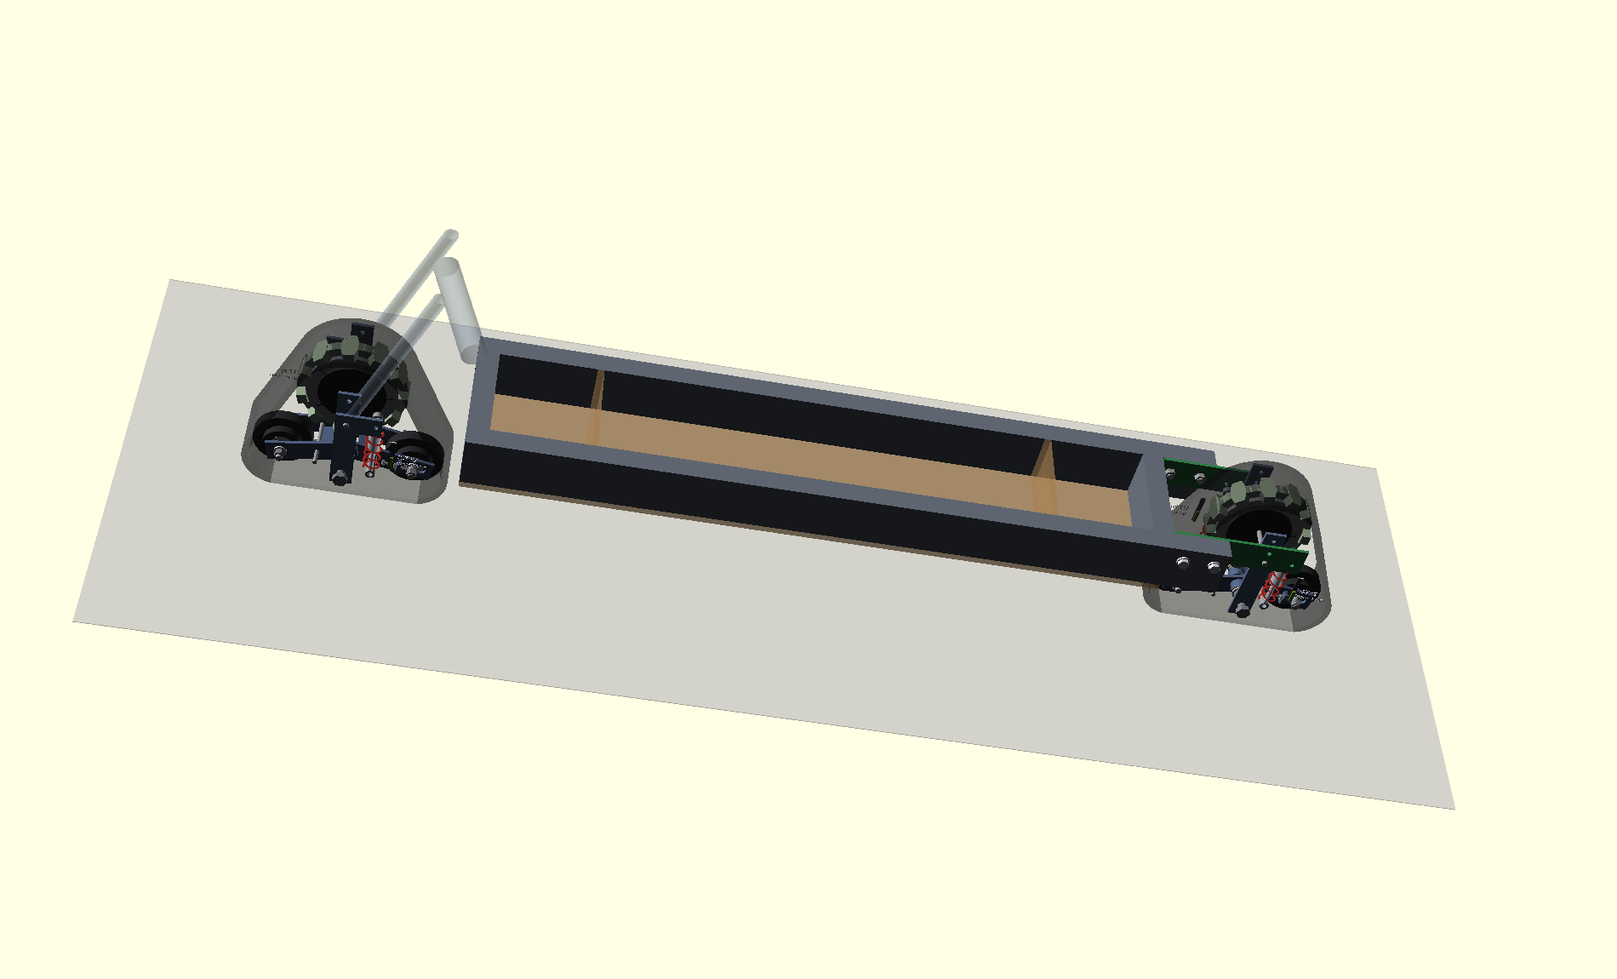
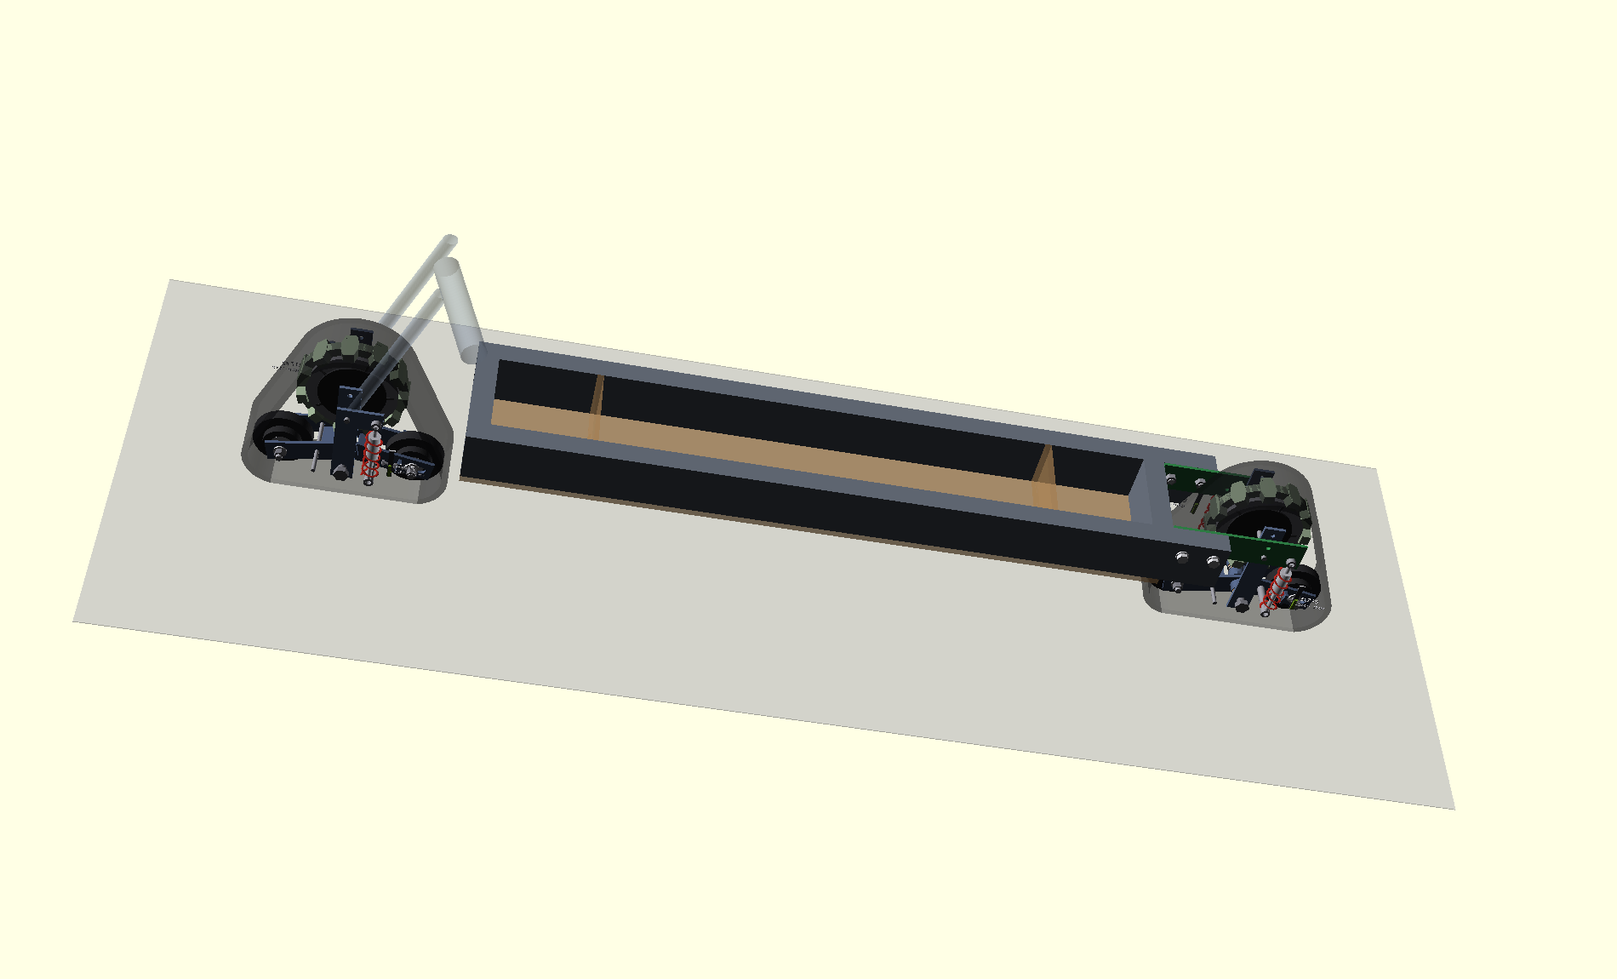
WALL-E: give view a Customizer dropdown, add the missing chest mode
walle.scad's "view" had a prose comment instead of the // [a, b, c]
annotation OpenSCAD needs, so the Customizer showed a text box and you had to
know the mode names to type them. It now lists all eleven views with readable
labels.

cad/walle_frame.scad's render_mode list was missing "chest", which was added
when the speakers went in. The mode worked; it just was not offered.

Changed region(s): [[0.2795, 0.3348, 0.8074, 0.6391], [0.1863, 0.2435, 0.2795, 0.487]]

diff --git a/archive/rev012-inline-batteries/README.md b/archive/rev012-inline-batteries/README.md
@@ -85,11 +85,11 @@ open -a OpenSCAD apollo_track_pod.scad     # OpenSCAD is installed via Homebrew
 - `render_mode = "tensioner"` — labeled 3D close-up of the Sheet-6 belt tensioner
   (slot, adjuster blocks, draw bolts, welded lugs); `tension_pos` (0–25) slides the
   axle through its take-up.
-- `render_mode = "chassis"` — **REV 012: the whole vehicle.** 100×40×2 frame, two batteries in
-  line, a 6.5″ speaker firing up at each end of the deck, rear pod bolted to the rails
-  (4× M12), front end drawn as a ghost (its link to the frame is not designed yet). The echoes
-  print every check, the cut list and the weight. See "Rev 012 — narrow frame" below.
-  Toggles: `show_lid`, `show_tray`, `show_batteries`, `show_speakers`, `show_chassis_labels`.
+- `render_mode = "chassis"` — **REV 012: the whole vehicle.** Narrow 100×40×2 frame,
+  two batteries in line, a 6.5″ speaker firing up at each end of the deck, rear pod bolted to
+  the rails (4× M12), front pod in the donor fork (ghost). The echoes print every check, the
+  cut list and the weight. See "Rev 012 — narrow frame" below. Toggles: `show_lid`,
+  `show_tray`, `show_batteries`, `show_speakers`, `show_chassis_labels`.
 - `render_mode = "chassis_link"` — labelled close-up of how the rear pod hangs on the rails;
   `link_explode` (0–150) pulls the pod back out.
 - `render_mode = "chassis_plates"` — the two green plates laid flat for DXF:
@@ -122,44 +122,28 @@ resize from them. The console echoes derived values (C, travel, motion ratio) ea
 > **2026-09-14: two 6.5″ speakers fire UP through the deck**, one at each end. Each one
 > sits in a sealed well made of parts that already exist — see "Speakers" below. The bay
 > now has to hold the packs *and* both wells, so it grew again: bay 1226, wheelbase
-> 1480 → 1706, rails 1187 → 1413.
->
-> **2026-09-15: the carrier plates go 140 → 168 apart, so the bay is 200 wide** (280 over
-> the rails, lid 330). The parameter is still called `fork_gap`, but that name is now
-> history: **no donor fork holds either pod.** The rear fork is cut off and thrown away,
-> and the front steering-to-frame link is still undesigned, so it will be built to fit.
-> The number is simply how far apart the two carrier plates sit, and `bay_w = fork_gap + 32`.
->
-> It pays for itself three times. The Ø165 speaker hole now clears the rail by **17.5 mm**
-> instead of 3.5. The belt has **25 mm per side** instead of 11. And the shocks move
-> **inboard** of the carriers, which shortens the lower shock bolt's bending lever from 62
-> to 41 mm and drops that long-standing WARN from 530 to **351 MPa**. It costs a longer
-> pivot axle (M16×190 → **M16×220**), longer outboard sleeves, and the carrier's upper
-> shock tab moves to the **inner** face. Chassis 21.3 → 22.1 kg. Whole-model warnings: 3 → 2.
->
-> ⚠ **Do not stop between 142 and 156.** There the shocks stay outboard and only move
-> further out, so the lower shock bolt gets *worse* — up to 598 MPa. 158 is where it flips.
+> 1480 → 1706, rails 1187 → 1413, chassis 18.2 → 21.3 kg. **One WARN: the Ø165 hole
+> leaves only 3.5 mm to the rail** — measure your driver's real cutout and set
+> `spk_cut_d`, because everything downstream is driven by that one number.
 
 ![side view](rev012_chassis_side.png)
 
 | Part | Material | Notes |
 |---|---|---|
-| 2 rails | **100×40×2**, 100 side vertical | 1413 long, **200 apart inside** (280 outside) |
-| front + rear cross member | **100×40×2** | 200 long, keep the rails square |
+| 2 rails | **100×40×2**, 100 side vertical | 1413 long, **172 apart inside** (252 outside) |
+| front + rear cross member | **100×40×2** | 172 long, keep the rails square |
 | 2 green plates | **60×6**, no cut | flat on the hub plates (axle key + M8 + weld), flat on the rails' inner faces |
 | 4 sleeves | steel Ø25 × Ø13 × 40 | welded inside the rails, one at each bolt |
 | 4 bolts | M12×65 10.9 + washer · M12 nut welded on the green plate | **the whole rear pod comes off with these 4** |
-| 2 batteries | 400 × 110 × 80 (measured) | **one behind the other**, 90 mm spare in width, 20 above |
+| 2 batteries | 400 × 110 × 80 (measured) | **one behind the other**, 62 mm spare in width, 20 above |
 | 2 speakers | 6.5″, Ø165 × 50 deep (owner's) | fire **up through the deck**, one at each end |
-| 2 bulkheads | plywood 12 mm | 200 × 100, seals each speaker well off from the batteries |
-| lid / tray | plywood 12 mm (TBD) | lid 1306 × 330 · standing height **269** · lowest point 145 |
+| 2 bulkheads | plywood 12 mm | 172 × 100, seals each speaker well off from the batteries |
+| lid / tray | plywood 12 mm (TBD) | lid 1306 × 302 · standing height **269** · lowest point 145 |
 
-**Bay 200 mm wide**, set by the rear pod: carrier plates 168 apart → carrier face at |z| 88 →
-green plate 94…100 → rail inner face 100. **Bay 1226 mm clear** along the vehicle = 840 for the
-two packs + 386 for the two speaker wells. **Wheelbase 1706 mm** = front cross member at 210 +
-bay 1226 + two cross members + 190 to the rear axle. Chassis ≈ **22.1 kg**: steel 16 + plywood 6.
-The bay length is the larger of `bay_len_set` and what the packs plus the wells need, so it can
-never be built too short.
+**Bay 1226 mm clear** = 840 for the two packs + 386 for the two speaker wells. **Wheelbase
+1706 mm** = front cross member at 210 + bay 1226 + two cross members + 190 to the rear axle.
+Chassis ≈ **21.3 kg**: steel 15.8 + plywood 5.5. The bay length is the larger of
+`bay_len_set` and what the packs plus the wells need, so it can never be built too short.
 
 ![3/4 view](rev012_chassis_3q.png) ![top view, lid off](rev012_bay_top.png)
 
@@ -186,34 +170,26 @@ tube and a middle bar, stay in `../rev011-uncut-11T-lowB/` as history.)
 
 **The well is built from parts that are already there.** Its two sides are the rail inner
 faces, its floor is the tray, its lid is the deck, and its outer end is the steel cross member.
-Only the inner end is new: one 12 mm plywood bulkhead, 200 × 100, that seals the well off from
+Only the inner end is new: one 12 mm plywood bulkhead, 172 × 100, that seals the well off from
 the batteries. So each speaker costs one bulkhead and one hole in the deck.
 
 | | value |
 |---|---|
 | Driver | 6.5″, **Ø165 × 50 deep** (owner's, measured) |
 | Hole in the lid | **Ø165**, on the centreline, 130.5 and 1175.5 mm from the lid's front edge |
-| Well, clear | 181 long × 200 wide × 100 deep |
-| Sealed volume | **≈ 3.2 litres** behind each driver |
-| Hole edge to the rail | **17.5 mm** — this is what the 200 mm bay bought |
+| Well, clear | 181 long × 172 wide × 100 deep |
+| Sealed volume | **≈ 2.7 litres** behind each driver |
 | Air under the cone | 50 mm |
 
-**How wide the bay has to be:** `bay_w ≥ spk_cut_d + 2 × 5` is the guard, and 10 mm each side is
-comfortable. At the old 172 mm bay this Ø165 hole left only 3.5 mm and WARNed. **Measure your
-driver and set `spk_cut_d`** — the well length, the bay length, the wheelbase and the rail
-length are all derived from it.
-
-| Bay width | carrier plates apart | Ø165 hole to rail | lower shock bolt |
-|---|---|---|---|
-| 172 (old) | 140 | 3.5 mm — WARN | outboard, 530 MPa |
-| 188 | 156 | 11.5 mm | outboard, **598 MPa — worse** |
-| 190 | 158 | 12.5 mm | inboard, 351 MPa |
-| **200 (built)** | **168** | **17.5 mm** | inboard, 351 MPa |
+**The one WARN: the hole edge is 3.5 mm from the rail.** A Ø165 hole in a bay that is 172 mm
+wide leaves almost nothing. Most 6.5″ drivers with a Ø165 rim only need a cutout near Ø147,
+which would give 12.5 mm. **Measure your driver and set `spk_cut_d`** — the well length, the
+bay, the wheelbase and the rail length are all derived from it, so they shrink on their own.
 
 Two more things the model does not draw. The well is only sealed if you actually seal it:
 run silicone or foam tape where the plywood meets the steel, or the box leaks and the bass
 goes. And the deck is what you stand on, so **each hole needs a grille that takes a foot** —
-the lid carries nothing across the hole. The lid still lands on both rails: 82.5 mm of
+the lid carries nothing across the hole. The lid still lands on both rails: 68.5 mm of
 plywood is left each side of the hole, over a 40 mm rail.
 
 Hide the drivers in any render with `show_speakers = false`.
@@ -225,16 +201,16 @@ Hide the drivers in any render with `show_speakers = false`.
 | front cross member behind the front pod at full steering lock | 17.3 mm |
 | rear cross member + lid edge to the rear track, full travel | 26.8 mm |
 | rail rear end ahead of the front shock | 8.9 mm |
-| rail inner face / M12 weld nut to the track edge | 41 / 25 mm |
+| rail inner face / M12 weld nut to the track edge | 27 / 11 mm |
 | green plate / front shock tab above the spring, full travel | 2.7 / 2.7 mm |
 | green plate at the rail end / at the rear bolt hole / at the shock eye hole | 83 / 97 / 21 MPa |
 | rail at the joint / rails with rider ×2 | 30 / 30 MPa |
-| speaker hole edge to the rail inner face | 17.5 mm |
-| speaker rim to the lid edge / air under the cone | 70 / 50 mm |
-| lid beside a speaker hole | 82.5 mm each side, over a 40 mm rail |
+| speaker hole edge to the rail inner face | **3.5 mm — WARN**, see "Speakers" |
+| speaker rim to the lid edge / air under the cone | 56 / 50 mm |
+| lid beside a speaker hole | 68.5 mm each side, over a 40 mm rail |
 | sleeve bearing / sleeve under bolt preload / M12 shear | 77 / 140 / 68 MPa |
 | bolt joint | 7684 N per bolt vs 10000 N grip — does not slip |
-| plywood lid 12 mm, one foot | 8 MPa (limit 15) |
+| plywood lid 12 mm, one foot | 6.5 MPa (limit 15) |
 
 Static spring forces at the travel limits; steel limit 141 MPa (0.6 × 235). The only WARNs
 left are the lower shock bolt (below).
@@ -244,12 +220,12 @@ left are the lower shock bolt (below).
 | Material | Part | Qty × size |
 |---|---|---|
 | 100×40×2 | rails | 2 × 1413 |
-| 100×40×2 | front + rear cross members | 2 × 200 — **3226 mm total** |
+| 100×40×2 | front + rear cross members | 2 × 172 — **3170 mm total** |
 | 60×6 | green plate RIGHT (rear shock eye) | 1 × 260 |
 | 60×6 | green plate LEFT (front shock eye) | 1 × 208 — **468 mm total** |
 | steel bar/tube | sleeves Ø25 × Ø13 | 4 × 40 |
-| plywood 12 mm | lid · tray | 1306 × 330 · 1306 × 280 |
-| plywood 12 mm | speaker bulkheads | 2 × 200 × 100 (front faces at x 431 and 1283) |
+| plywood 12 mm | lid · tray | 1306 × 302 · 1306 × 252 |
+| plywood 12 mm | speaker bulkheads | 2 × 172 × 100 (front faces at x 431 and 1283) |
 | lid holes | Ø165 on the centreline | 130.5 and 1175.5 from the lid's front edge |
 | hardware | M12×65 10.9 + washer · M12 weld nut · M8 plate → hub plate | 4 · 4 · 2 |
 
@@ -272,9 +248,8 @@ measures them back (outlines, every hole position and size, keys, rulers). Flat 
 
 ### ⚠ Still open
 
-- **Lower shock bolt is over-stressed** (~351 MPa trailing / ~284 leading at full bump, both
-  pods; guard WARNs). Fix it before the arms are built. The 168 plate spacing moved the shocks
-  inboard and cut this down from 530/463, but it is still over the 235 MPa mild-steel yield.
+- **Lower shock bolt is over-stressed** (~530 MPa trailing / ~463 leading at full bump, both
+  pods; guard WARNs). Fix it before the arms are built.
 - **Front fork → frame link** — not designed.
 - **Measure:** the front cross member position against the real front pod, the spring's outer
   diameter, head angle, fork offset and length, steering lock.
@@ -288,9 +263,9 @@ The stock pod's rigid internal frame is removed and replaced by:
    backbone. Each hangs from a scooter-fork leg: the hub-motor's static Ø10 flatted
    axle passes through a matching slot (the plate doubles as a torque arm) and one
    M8 bolt into the leg 52 mm above locks rotation. No carrier bearings, no
-   anti-rotation link — the mount is the chassis anchor. Plates sit at
-   **|z| = 88, front and rear** (spacing widened to 168 on 2026-09-15; it was 74
-   at the donor's measured 140 gap), outside the belt's 118 mm width (29 mm/side),
+   anti-rotation link — the fork is the chassis anchor. Plates sit on the leg OUTER
+   faces (|z| = 74 front AND rear — both gaps 140, legs 4 mm; Rev 003), outside
+   the belt's 118 mm width (15 mm/side),
    so **the carrier can never touch the track at any articulation**. Boxed together
    by the hub axle (top), the pivot axle (middle), and the **M8 keel standoff
    back in its Rev 004 window** (bottom) — between the sprocket's swept envelope
@@ -304,20 +279,17 @@ The stock pod's rigid internal frame is removed and replaced by:
 3. **Leading + trailing arms** — fork weldments (2 plain 40 × ¼″ flat-bar plates each — Rev 004, rectangles only) nested on the
    pivot like scissors; 4 flanged SAE 841 bronze bushings (Ø16×Ø22×20), one in a
    25 mm boss tube per fork plate — trailing bosses point inboard, leading bosses
-   outboard, so the whole stack (centre spacer ≈4.5, 6 thrust washers, 2 outboard
-   sleeves ≈25.25 at the 168 spacing) is continuous carrier-to-carrier (Rev 003a).
-   All three tube pieces are cut at the dry-stack — take the lengths from the
-   `PIVOT STACK` echo, not from this page. Fork shape keeps
+   outboard, so the whole stack (centre spacer ≈14, 6 thrust washers, 2 outboard
+   sleeves ≈7) is continuous carrier-to-carrier (Rev 003a). Fork shape keeps
    each idler centred on the belt. Trailing arm has a 25 mm slot + a motorcycle-style
    chain adjuster (Rev 002b; Rev 004a hardware): M6 lifting eye nut on each axle
    end (Ø20 eye rides the Ø15 axle — replaces the drilled-and-tapped block), M6
    draw bolt through a lug welded to the plate face — advancing the bolt draws
    the axle rearward.
-4. **Coil-over shocks ×2** — run **inboard of the carrier plates** (|z| = 73;
-   2026-09-15 — the 168 plate spacing puts the carriers at 88, which finally leaves
-   room between the belt edge and the carrier. At 140 they had to run outboard at
-   94, and that long lever is what over-stressed the lower bolt):
-   upper eye on a 40×6×55 tab stub lap-welded to the carrier INNER face (eye at
+4. **Coil-over shocks ×2** — run **outboard of the carrier plates** (|z| = 94;
+   Rev 002c/003 — with the measured 4 mm legs the carriers sit at 74, leaving
+   only 15 mm inboard of them, so the Rev 002 inboard placement doesn't fit):
+   upper eye on a 40×6×55 tab stub lap-welded to the carrier OUTER face (eye at
    (±51, −8.5) from the hub centre — Rev 008, essentially Rev 004's (±53, −9)),
    lower eye on an M8 through-bolt (eyes measured Ø8 — Rev 004b) + ≈45 mm
    spacer sleeve through both arm-fork plates at **a = 0.433·C = 53.7** on the bar
@@ -328,9 +300,9 @@ The stock pod's rigid internal frame is removed and replaced by:
 - **Belt derailment** — articulation changes belt path length (~6 mm through travel).
   Mitigated by ±15° travel limit, spring preload, and correct tensioner setting
   (10–15 mm mid-span sag).
-- ~~Belt-to-fork fit~~ — resolved in Rev 003 (both donor gaps re-measured at 140 mm,
-  11 mm per side) and no longer a fork question at all: since 2026-09-15 the carrier
-  plates are built **168 apart**, so the 118 mm belt has **25 mm per side**.
+- ~~Belt-to-fork fit~~ — resolved in Rev 003: both fork gaps re-measured at
+  **140 mm**, so the 118 mm belt has 11 mm per side front and rear (the earlier
+  120 mm front reading, which left 1 mm/side, was wrong).
 - ~~Anti-rotation~~ — resolved in Rev 002: the carriers bolt straight to the fork legs.
 
 ---
@@ -348,7 +320,7 @@ Everything is parametric on these.
 | D | Idler wheel OD | 90–120 | **108** (WJ wheel) |
 | G | Idler bearing bore | 15–20 | **15** — bearings are **6302-2RS (15×42×13)**; caliper read 14.86 = 15 nominal |
 | sprocket | Printed drive sprocket (Rev 008) | — | **Drum = cut rim floor Ø149 × 20.5** (flanges ground off; tape check 468 mm) + rib 18×**5.44** + **9 T-teeth** (51 across × 20 thick, blades to Ø130); wheel Ø160, cord Ø172, tooth marks every **55.8 mm on the rib top** (40°). Lug/blade tips sweep Ø130 over the **measured Ø123 casing** — 3.4 mm, guarded |
-| fork | Carrier-plate spacing (was the fork-leg inner gap) | — | **168 / 168 — a BUILD TARGET, not a measurement** (2026-09-15). The donor's gaps were 140/140 re-measured, but no donor fork holds either pod now: the rear fork is cut off, and the front steering link is undesigned. Leg thickness **4** where a leg still exists |
+| fork | Fork-leg inner gap (front / rear) | — | **140 / 140** (re-measured 2026-07-20, Rev 003 — was 120/140) — leg thickness **4** |
 | axle | Hub-motor axle | — | **Ø10, flatted, static** — carrier plates slot onto it (torque-arm style) |
 | ~~F~~ | ~~Belt inner width between guide lugs~~ | — | **Superseded**: no edge guide rows exist. The working channel is the **22 mm gap between the lug pairs** — the idler tread band (~20 wide; the 58 is its hub boss), the kit wheel's rib, and our printed rib all ride in it (Rev 007 correction) |
 | lug_h | Drive-lug (pyramid) height | — | **15 measured** (2026-07-24; was 20 conservative) |
@@ -361,8 +333,8 @@ Everything is parametric on these.
 `C = 123.9` (arm length) · neutral droop `17.9°` · wheel travel `+31.8 / −29.2 mm` at ±15° ·
 shock station `a = 0.433·C = 53.7` (bar axis) · upper shock eye at `(±51, −8.5)` from hub centre ·
 keel centre `89.9` below hub centre (Ø12×1.5 tube, in the Rev 004 window) · motion ratio `MR = 0.4327` (true kinematic) ·
-carrier planes `|z| = 88` (both pods, at the 168 spacing) · pivot axle stack `≈210` → **M16 × 220, part-threaded**
-(both pods) · shock plane `|z| = 73` (**inboard** of the carriers) ·
+carrier planes `|z| = 74` (both pods) · pivot axle stack `≈182` → **M16 × 195, 45 mm thread one end**
+(both pods; smooth shank 150 clears all bushings, 4 mm margin) · shock plane `|z| = 94` (outboard) ·
 sprocket: 9 stations × 40°, rib top Ø159.9, cord Ø171.9 · lug/blade tips to casing `3.4` (guarded).
 
 **Idler axle:** the 6302 bearings take a **Ø15 mm axle** — a 15×100 MTB thru-axle

diff --git a/archive/rev012-inline-batteries/FASTENERS.md b/archive/rev012-inline-batteries/FASTENERS.md
@@ -15,7 +15,7 @@ side). Where a source said only "2×" without saying which, the reading is noted
 
 | Item | /pod | both | Notes |
 |---|---:|---:|---|
-| M16 × **220** hex bolt, part-threaded, cl.10.9 | 1 | **2** | ⚠ **Changed 2026-09-15** — the 168 carrier-plate spacing makes the stack ≈210, so the old ×195 is too short. Take the length from the model's `PIVOT AXLE` echo. The smooth shank must span all 4 bushings + spacer — bushings must never ride on thread |
+| M16 × 195 hex bolt, **part-threaded 45 mm one end only**, cl.10.9 | 1 | **2** | Owner-sourced part. Smooth shank 150 must span all 4 bushings + spacer — bushings must never ride on thread |
 | M16 nylock nut | 1 | **2** | **One per bolt only** — it is a headed bolt, not a stud |
 | Ø16 hardened flat washer | 2 | **4** | |
 | Ø16 × Ø30 × 1.5 hardened thrust washer | 6 | **12** | Every steel face that rotates against another |
@@ -26,9 +26,9 @@ off ⅛ turn** (running fit) — not to a torque figure.
 An earlier shopping list said 4 M16 nylocks total; that was wrong and is corrected in
 `apollo_track_pod_rev011.scad:146`.
 
-**Substitute** (owner's fallback): M16 double-end stud, **now ≈215**, + **2** nylocks per pod.
-The smooth middle must still span the bushings. Prefer 8.8/B7 over A2-70 stainless;
-anti-seize on stainless.
+**Substitute** (owner's fallback): M16 double-end stud × 190 + **2** nylocks per pod. The
+smooth middle must still be ≥150. Prefer 8.8/B7 over A2-70 stainless; anti-seize on
+stainless.
 
 Not fasteners but part of this stack: 4 flanged bronze bushings per pod (SAE 841,
 Ø16 ID × Ø22 OD × 20, flange ≈Ø28×3) → **8** for both pods.
@@ -76,9 +76,9 @@ Four shocks total (2 per pod, one per arm), eyes measured **Ø8**.
 
 | Item | /pod | both | Notes |
 |---|---:|---:|---|
-| M8 part-threaded bolt, lower eye — ⚠ **re-measure** | 2 | **4** | Through both arm plates; eye rides the spacer sleeve; smooth shank where eye + sleeve ride. The old ≈135 was for shocks OUTBOARD at \|z\|=94. Since 2026-09-15 they run **INBOARD at \|z\|=73**, so this bolt gets ~42 shorter. Measure at the §9.5 fitting |
+| M8 part-threaded bolt, ≈**135** — lower eye | 2 | **4** | Through both arm plates; eye rides the spacer sleeve; smooth shank where eye + sleeve ride |
 | M8 nylock nut | 2 | **4** | |
-| Ø15 OD × Ø9 ID × ≈**28** spacer sleeve | 2 | **4** | In the §7.1 steel order, not a fastener. Was ≈45 with the shocks outboard; take the length from the model's `SHOCKS` echo |
+| Ø15 OD × Ø9 ID × ≈45 spacer sleeve | 2 | **4** | In the §7.1 steel order, not a fastener |
 | M8 pin/bolt ≈**35–40** + nylock — upper eye | 2 | **4** | ⚠ **Missing from §7.7** — see below |
 
 ⚠ **Gap in the published BOM:** the upper shock tab carries a Ø8.4 "eye pin hole" for an
@@ -87,7 +87,7 @@ but §7.7 lists only the fork bolts and the *lower* shock bolts. Length is not s
 anywhere; the tab is a single 6 mm plate, so head + shock eye + 6 + washer + nylock lands
 around 35–40. **Measure it at the §9.5 fitting** with the real shock eye in hand.
 
-Confirm the lower bolt length at §9.5 too — §7.7's "≈135" is now wrong (shocks moved inboard).
+Confirm the lower bolt length at §9.5 too — §7.7 only says "≈135".
 
 ## E · Belt tensioner — **Rev 011b PUSHER** (supersedes the §7.6 / Rev 004a pull-type)
 
@@ -144,7 +144,7 @@ Paint-pen witness marks on everything. Retorque at 1 h / 5 h / then every 20 h (
 ## Shopping total, both pods
 
 ```
-M16 × 220 part-threaded cl.10.9 bolt ........  2
+M16 × 195 part-threaded cl.10.9 bolt ........  2
 M16 nylock nut ..............................  2
 Ø16 hardened flat washer ....................  4
 Ø16 × Ø30 × 1.5 thrust washer ............... 12

diff --git a/README.md b/README.md
@@ -6,12 +6,11 @@ files live in the per-revision folders. Every future change lands in the live re
 ## Live revision
 
 **[`archive/rev012-inline-batteries/`](archive/rev012-inline-batteries/) — Rev 012, live.** The pod is
-Rev 011 (below) with the **carrier plates built 168 apart instead of 140** (2026-09-15 — no donor fork
-holds either pod now, so that spacing is a free choice; it sets the frame width and moves the shocks
-inboard). Rev 012 adds the scratch-built **frame**: two 100×40×2 rails bolted straight onto the rear
-pod's 60×6 green plates (4× M12), the two 400×110×80 batteries in line between them, and a 6.5″ speaker
-firing up through the deck at each end. Bay 200 wide × 1226 clear, wheelbase 1706, chassis ~22 kg.
-`render_mode="chassis"`; printable green-plate templates: `rev012_green_plate_templates.pdf`.
+Rev 011 (below, unchanged). Rev 012 adds the scratch-built **narrow frame**: two 100×40×2 rails bolted
+straight onto the rear pod's 60×6 green plates (4× M12), the two 400×110×80 batteries in line between
+them, and a 6.5″ speaker firing up through the deck at each end. Bay 1226 clear, wheelbase 1706,
+chassis ~21 kg. `render_mode="chassis"`; printable green-plate templates:
+`rev012_green_plate_templates.pdf`.
 
 **Pod — Rev 011** (source folder [`archive/rev011-uncut-11T-lowB/`](archive/rev011-uncut-11T-lowB/)):
 
